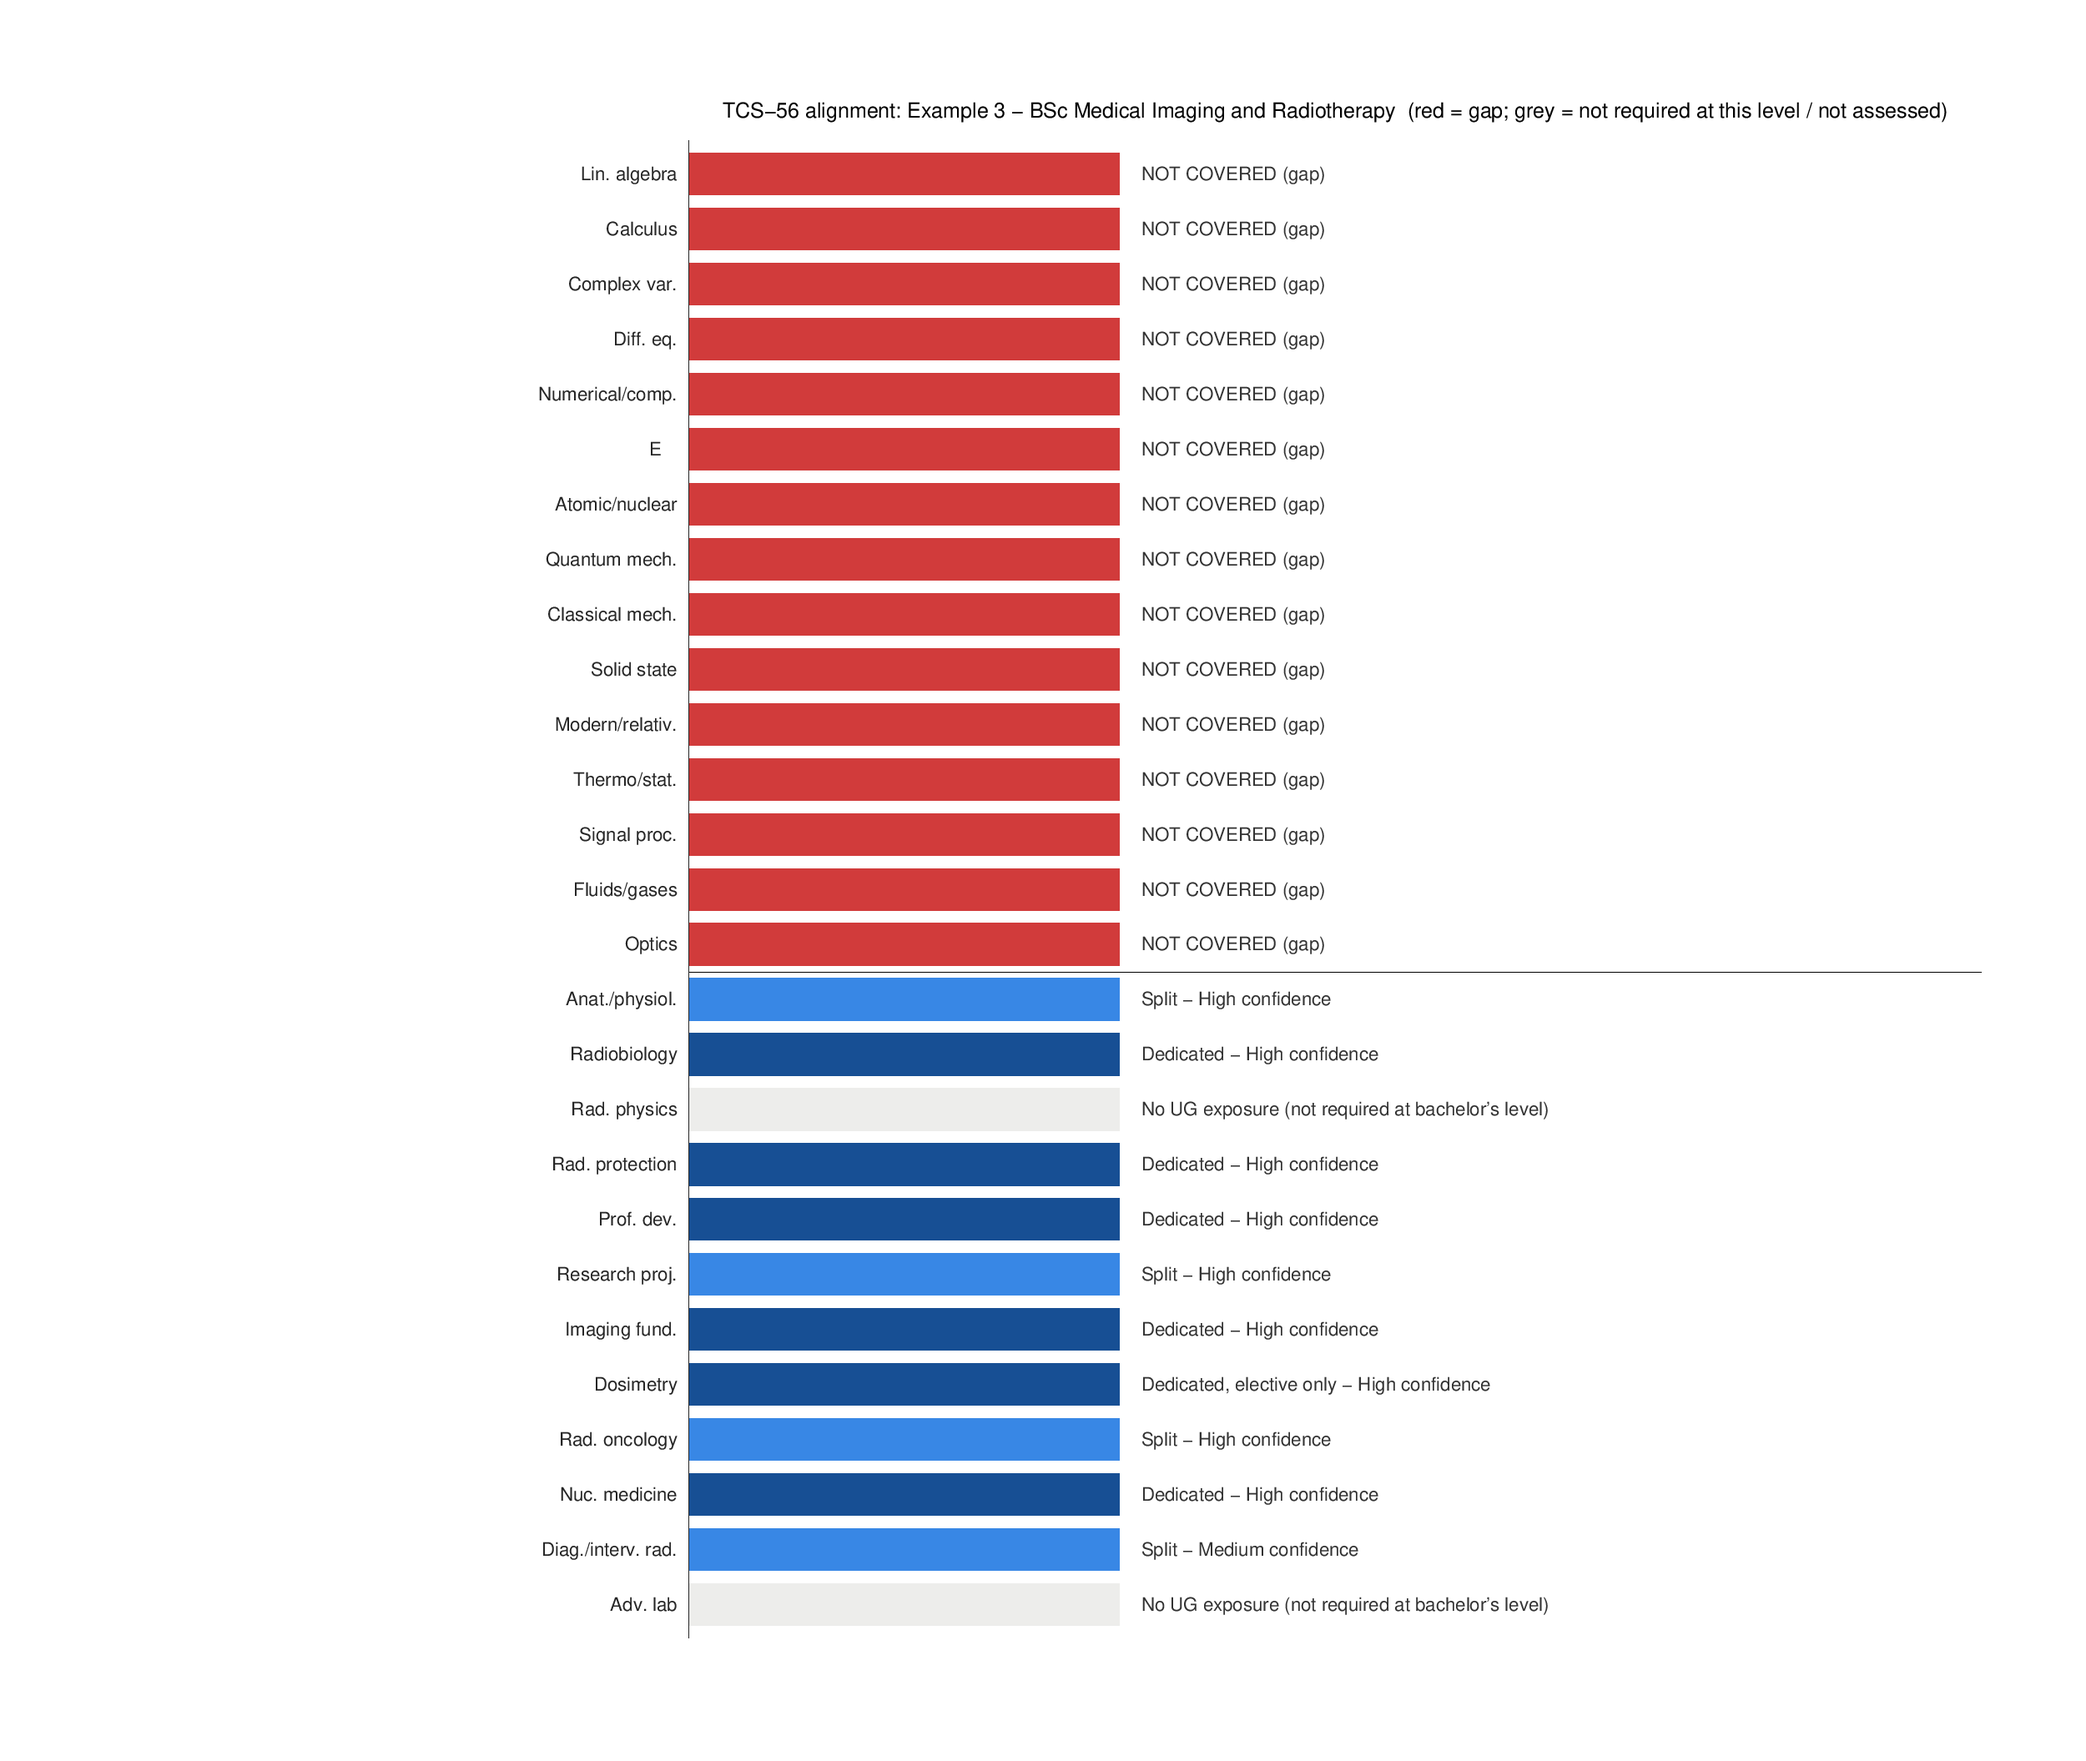
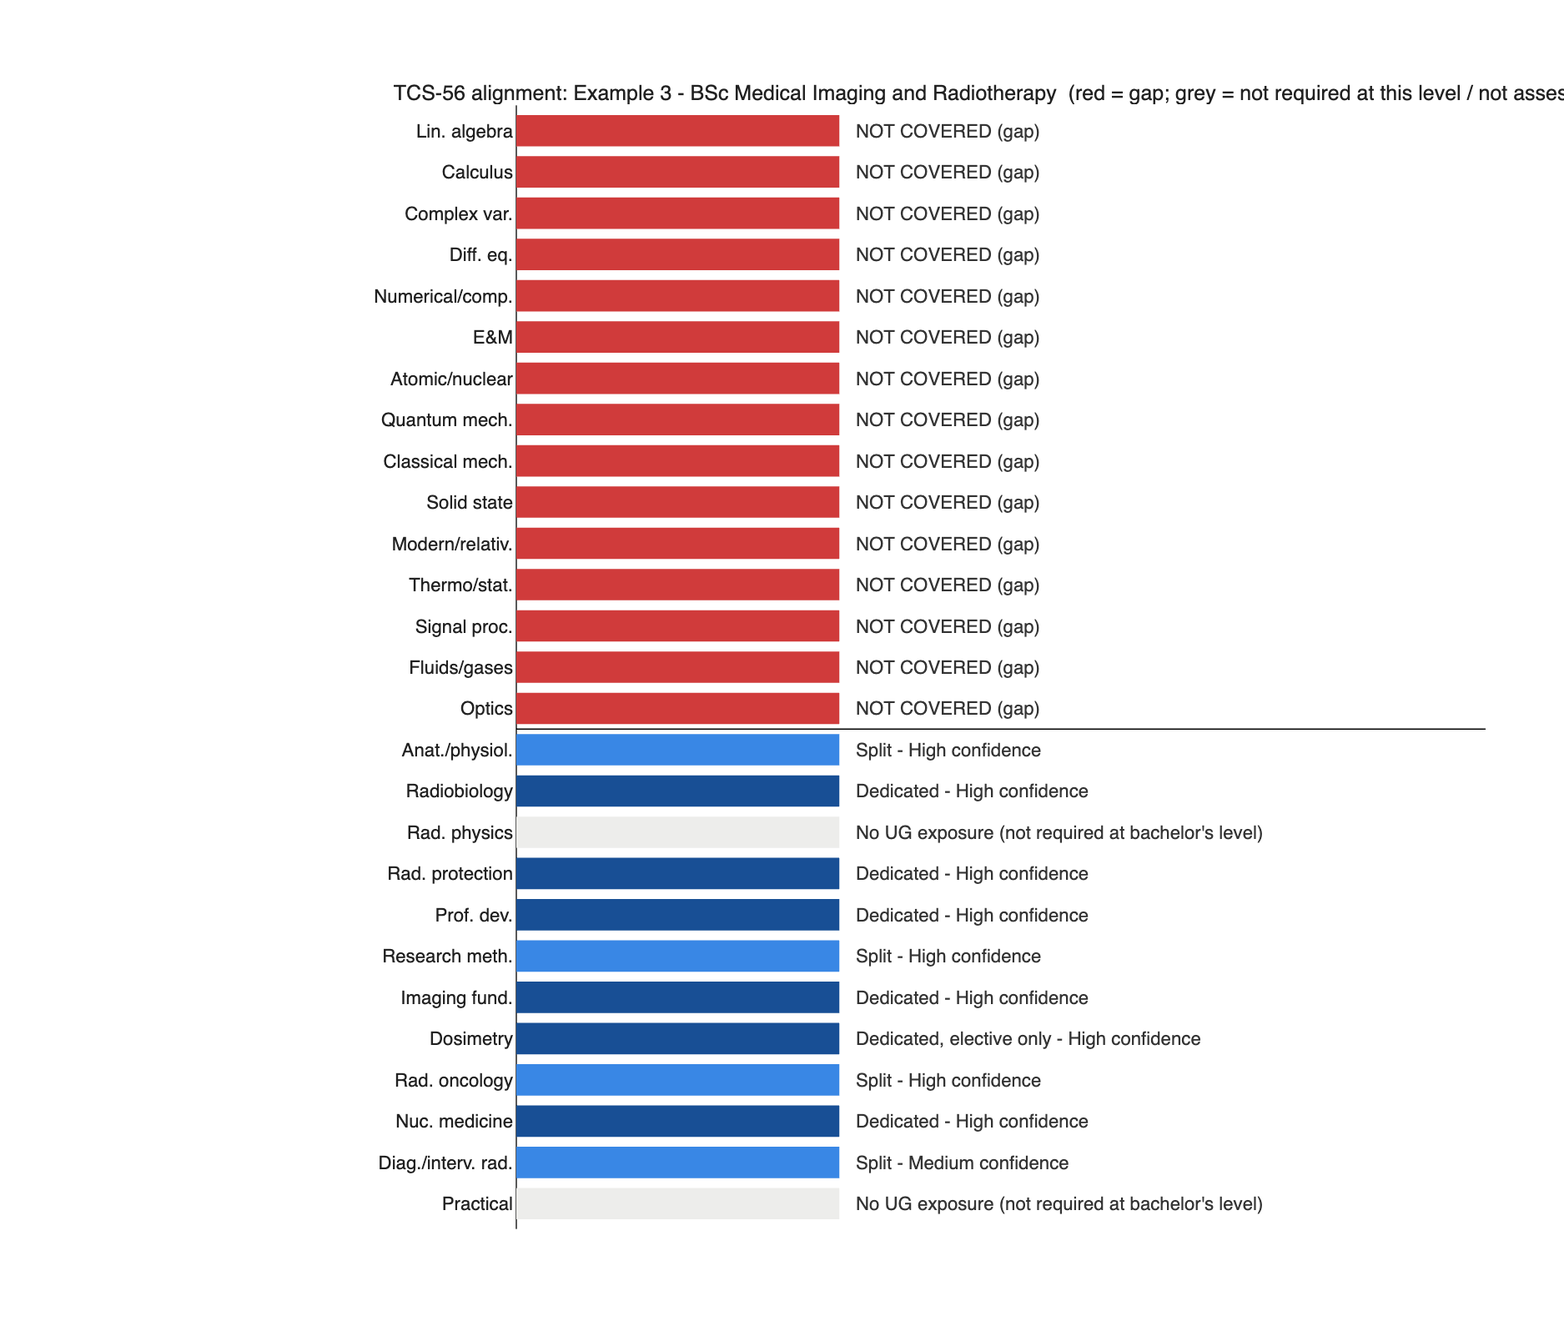
Regenerate example 3 output in MATLAB (TCS-56 item names)
Claude-Session: https://claude.ai/code/session_017GkgYiC1FGVQHbA2DuZDiu

Changed region(s): [[0.2475, 0.0619, 1.0, 0.928]]

diff --git a/examples/output/ex3/assessment_report.md b/examples/output/ex3/assessment_report.md
@@ -1,6 +1,6 @@
 # TCS-56 alignment: Example 3 - BSc Medical Imaging and Radiotherapy
 
-Level: Bachelor. Input: University (course list). Generated 2026-11-16.
+Level: Bachelor. Input: University (course list). Generated 2026-11-20.
 
 ## Summary
 
@@ -38,13 +38,13 @@ Level: Bachelor. Input: University (course list). Generated 2026-11-16.
 | Radiation Physics | Not covered |  |  | No undergraduate exposure found. TCS-56 places this item in the postgraduate curriculum, so this is not a bachelor's-level gap. |
 | Radiation Protection | Dedicated | High | Radiation Protection and Safety (High) |  |
 | Professional and Scientific Development | Dedicated | High | Ethics and Professional Practice (High) |  |
-| Research Project | Split | High | Research Methodology (Medium); Research Project (High) |  |
+| Research Methodology | Split | High | Research Methodology (Medium); Research Project (High) |  |
 | Medical Imaging Fundamentals | Dedicated | High | Principles of Imaging (High) |  |
 | Radiation Dosimetry | Dedicated (elective only) | High | Radiation Dosimetry (High) | Reached only through electives: a graduate may not have taken it. |
 | Physics of Radiation Oncology | Split | High | Principles of Radiotherapy (High); Radiotherapy Treatment Planning (High); Clinical Practice II (Low) |  |
 | Physics of Nuclear Medicine | Dedicated | High | Nuclear Medicine Imaging (High) |  |
 | Physics of Diagnostic and Interventional Radiology | Split | Medium | General Radiography (Medium); Computed Tomography (Medium); Magnetic Resonance Imaging (Medium); Ultrasound Imaging (Medium) |  |
-| Advanced topics laboratory | Not covered |  |  | No undergraduate exposure found. TCS-56 places this item in the postgraduate curriculum, so this is not a bachelor's-level gap. |
+| Practical Sessions | Not covered |  |  | No undergraduate exposure found. TCS-56 places this item in the postgraduate curriculum, so this is not a bachelor's-level gap. |
 
 ## Gaps
 
